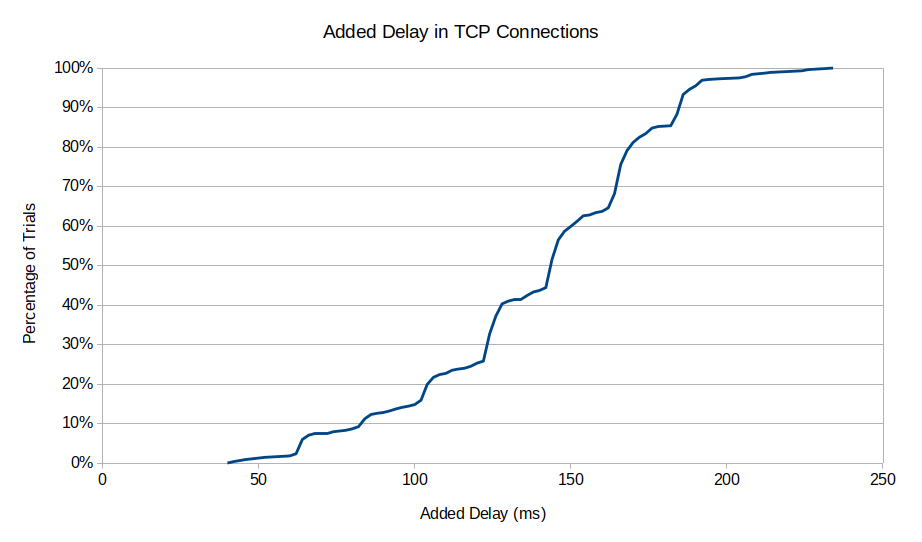
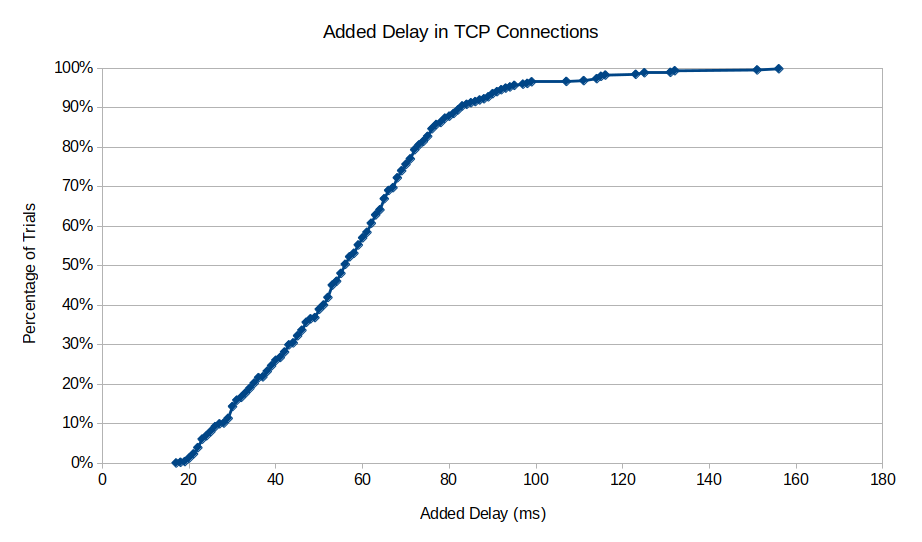
update with new results

diff --git a/1_introduction.tex b/1_introduction.tex
@@ -70,7 +70,7 @@ cycles, battery power, etc.) and the cost of installing, running, and
 maintaining the controller server. We expect these costs to be a relatively
 small addition to existing resources. The app's UI monitoring and VPN service
 also add some latency to network requests performed on the phone. In our
-experiments \textsc{Appjudicator} added less than 200 milliseconds of total
+experiments \textsc{Appjudicator} added less than 100 milliseconds of total
 latency to new TCP connections in 97\% of trials. UDP connections and subsequent
 TCP requests to established connections have even less added latency.
 
@@ -108,7 +108,7 @@ To investigate we perform a study with several popular Google Play apps to
 determine whether \textsc{Appjudicator} can successfully detect and block
 suspicious non-user-initiated network requests. % TODO insert results
 We also measure the total added latency of the VPN and SDN agent, finding that
-our system adds less than 200 milliseconds of latency in 97\% of new TCP
+our system adds less than 100 milliseconds of latency in 97\% of new TCP
 connections.
 % TODO add more results
 

diff --git a/4_evaluation.tex b/4_evaluation.tex
@@ -91,11 +91,13 @@ packet would have been sent to the network without \textsc{Appjudicator}'s
 influence, so the difference of these two timestamps is the total latency added
 by the app.
 
-There were 562 measured TCP connections during the sampling period and seven
-removed as outliers, leaving 555 data points. The average added latency was 138
-milliseconds, with a standard deviation of 38 milliseconds. In our sample 97\%
-of TCP connections started with less than 200 milliseconds of added latency.
-Figure~\ref{fig:tcp-delay-chart} charts the full results.
+There were 572 measured TCP connections during the sampling period and six were
+removed as outliers, leaving 566 data points. The average added latency was 56
+milliseconds, with a standard deviation of 23 milliseconds. In our sample 97\%
+of TCP connections started with less than 100 milliseconds of added latency.
+This corresponds to about six frames of delay on a 60 Hz screen, which is
+noticeable but still relatively small. Figure~\ref{fig:tcp-delay-chart} charts
+the full results.
 
 \begin{figure}[h]
     \centering
